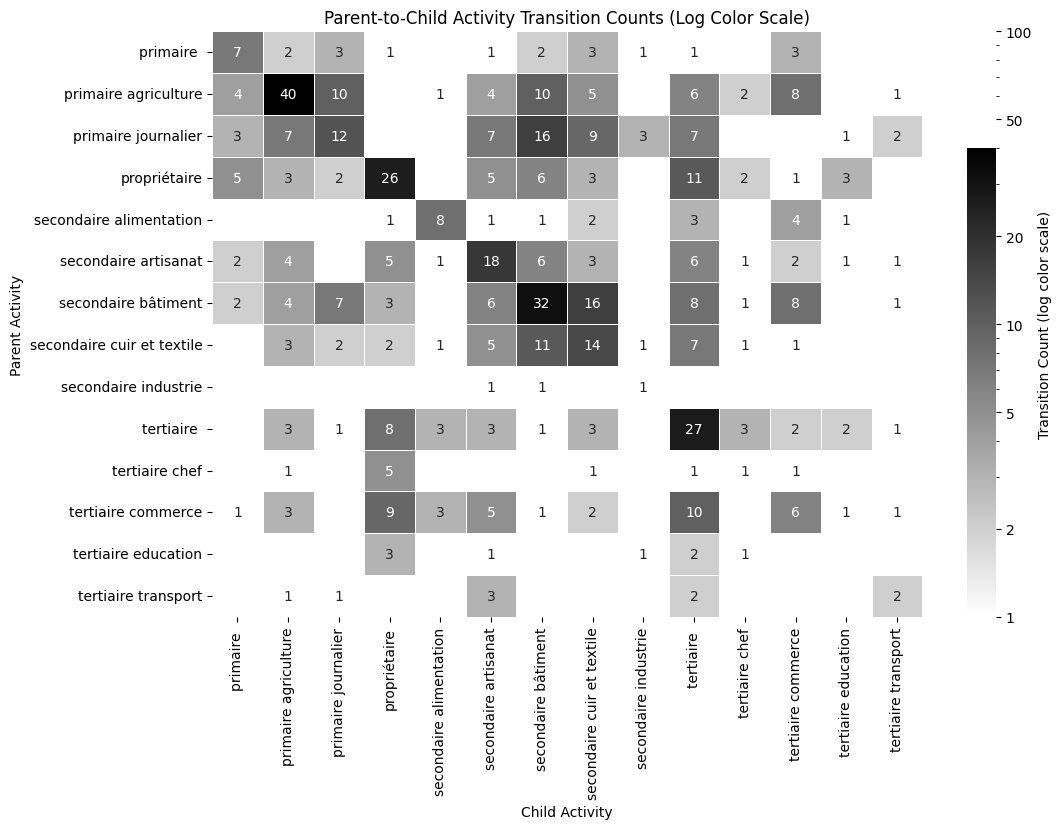
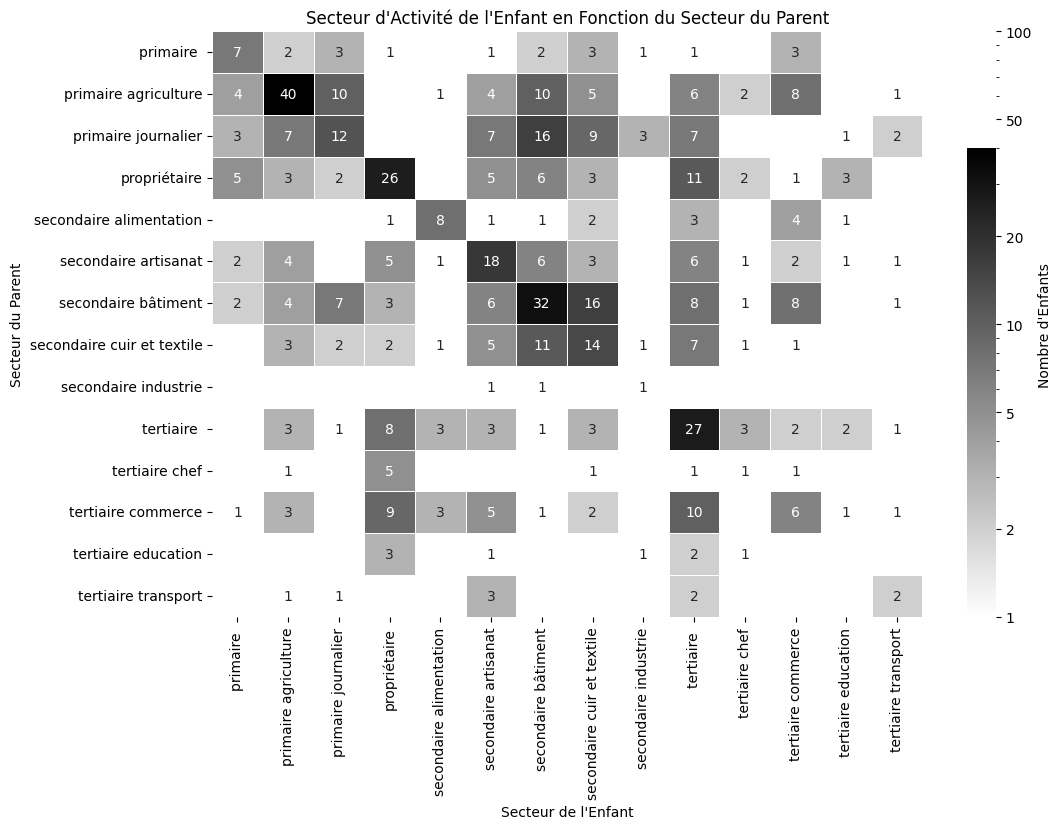
update white with french legend

diff --git a/src/views/AnalysisView.vue b/src/views/AnalysisView.vue
@@ -116,7 +116,7 @@
           <li><b>Secteur:</b> 3 valeurs possibles: primaire, secondaire, tertiaire. Secteur primaire : produire ou
             extraire des matières premières. Secteur secondaire : prendre des matières premières et fabriquer des
             produits. Secteur tertiaire : industrie des services : aucun bien physique.</li>
-          <li><b>Catégorie:</b> 3 valeurs possibles: agriculture, journalier, propriétaire, commerce, éducation, industrie,
+          <li><b>Catégorie:</b> valeurs possibles: agriculture, journalier, propriétaire, commerce, éducation, industrie,
             textile et cuir, artisanat, alimentation... Il s'agit d'un rafinement des secteurs.</li>
           <li><b>Tranche de Revenu estimé:</b> 3 valeurs possibles: bas, moyen ou élevé.</li>
         </ul>
